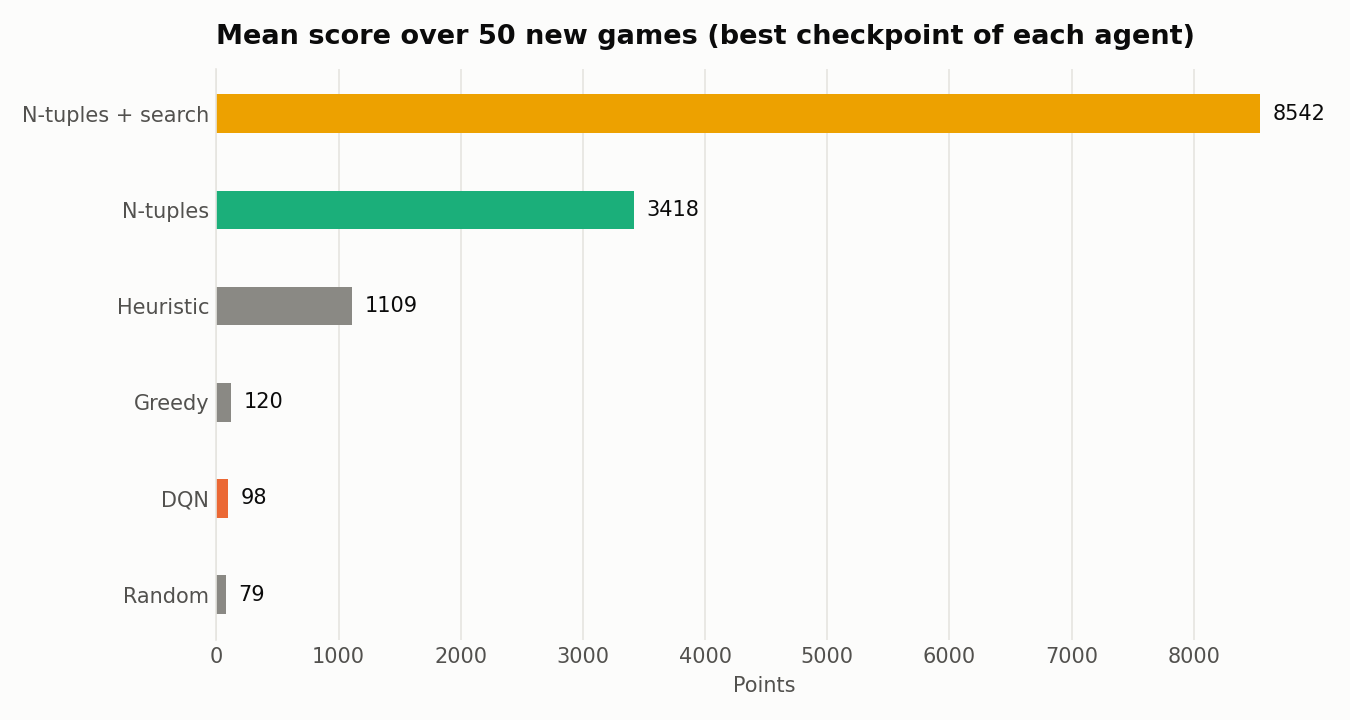
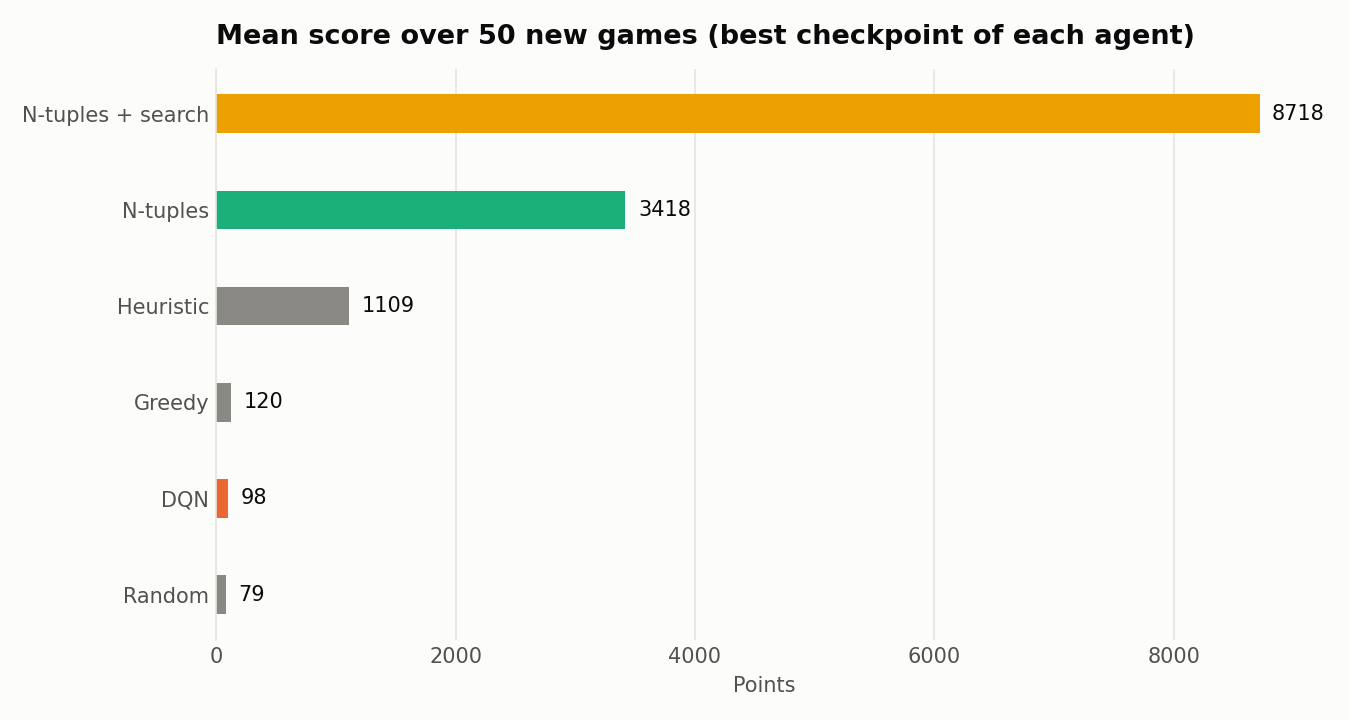
Search every piece left in hand and add --eval-only
- SearchAgent searches the remaining pieces of the hand recursively before trusting V
- experiment.py --eval-only re-runs the final evaluation without retraining" -m "- 10x10: n-tuples + search 8718 points, 96% of games reach the cap (was 8542, 90%)

diff --git a/src/tenten/agents/ntuple.py b/src/tenten/agents/ntuple.py
@@ -203,25 +203,30 @@ class NTupleAgent:
 
 
 class SearchAgent:
-    """One-step lookahead with a trained NTupleAgent, using the known pieces left in hand."""
+    """Searches every piece left in hand (they are known), and only then trusts V."""
 
-    def __init__(self, agent, top_k=12):
+    def __init__(self, agent, top_k=10):
         self.agent = agent
         self.top_k = top_k
 
     def act(self, env, info):
-        """Re-scores the top_k moves with the best follow-up move of the remaining pieces."""
+        """Plays the first move of the best sequence for the pieces in hand."""
+        actions, scores = self.search(env, env.board, env.hand)
+        return int(actions[np.argmax(scores)])
+
+    def search(self, env, board, hand):
+        """The top_k moves for this board and hand, re-scored with the best continuation."""
         a = self.agent
-        actions, slots, afterstates, rewards, scores = a.candidates(env)
-        best_action, best_score = actions[np.argmax(scores)], -np.inf
-        for i in np.argsort(-scores)[: self.top_k]:
-            rest = [k if s != slots[i] else None for s, k in enumerate(env.hand)]
-            if all(k is None for k in rest):
-                score = scores[i]  # last piece: the next hand is random, no lookahead
-            else:
-                *_, next_scores = a.candidates(env, board=afterstates[i], hand=rest)
+        actions, slots, afterstates, rewards, scores = a.candidates(
+            env, board=board, hand=hand
+        )
+        top = np.argsort(-scores)[: self.top_k]
+        for i in top:
+            rest = [k if s != slots[i] else None for s, k in enumerate(hand)]
+            if any(
+                k is not None for k in rest
+            ):  # pieces left: look further instead of using V
+                _, next_scores = self.search(env, afterstates[i], rest)
                 best_next = next_scores.max() if len(next_scores) else a.loss_penalty
-                score = rewards[i] + a.gamma * best_next
-            if score > best_score:
-                best_action, best_score = actions[i], score
-        return int(best_action)
+                scores[i] = rewards[i] + a.gamma * best_next
+        return actions[top], scores[top]

diff --git a/scripts/experiment.py b/scripts/experiment.py
@@ -3,7 +3,8 @@ Writes figures and summary.json to results/<setup>/ and logs everything to MLflo
 
 uv run python scripts/experiment.py --setup 5x5_small_L
 uv run python scripts/experiment.py --setup 10x10_all
-uv run python scripts/experiment.py --setup 10x10_all --only ntuple    # retrain only that model
+uv run python scripts/experiment.py --setup 10x10_all --only ntuple    # retrain only that model (overwrites it)
+uv run python scripts/experiment.py --setup 10x10_all --eval-only      # re-run only the final evaluation
 uv run mlflow ui --backend-store-uri sqlite:///mlflow.db      # http://127.0.0.1:5000
 """
 
@@ -96,6 +97,11 @@ def main():
         choices=list(TRAINERS),
         help="retrain only these models and reuse the rest from summary.json",
     )
+    parser.add_argument(
+        "--eval-only",
+        action="store_true",
+        help="no training: re-run the final evaluation of the saved models",
+    )
     args = parser.parse_args()
 
     setup = SETUPS[args.setup]
@@ -116,14 +122,13 @@ def main():
         for name, overrides in setup["configs"].items()
     }
 
-    if args.only:
+    retrain = [] if args.eval_only else args.only or []
+    if args.only or args.eval_only:
         with open(f"{results_dir}/summary.json", encoding="utf-8") as f:
             previous = json.load(f)
         baselines = {n: previous["final_scores"][n] for n in BASELINES}
         histories, models = previous["histories"], previous["models"]
-        delete_runs(
-            args.setup, [f"{n}_seed{SEED}" for n in args.only] + [f"summary_seed{SEED}"]
-        )
+        delete_runs(args.setup, [f"{n}_seed{SEED}" for n in retrain] + [f"summary_seed{SEED}"])
     else:
         baseline_config = {
             **common,
@@ -135,7 +140,7 @@ def main():
         )
         histories, models = {}, {}
 
-    for name in args.only or configs:
+    for name in retrain if (args.only or args.eval_only) else configs:
         print(f"\n=== {NAMES[name]} ===", flush=True)
         histories[name], models[name] = TRAINERS[name].train(
             configs[name], make_env, args.setup

diff --git a/tests/agents/test_ntuple.py b/tests/agents/test_ntuple.py
@@ -74,3 +74,14 @@ def test_simulated_move_matches_the_environment():
         assert np.isclose(reward, agent.reward_scale * env_reward)
         if terminated or truncated:
             obs, info = env.reset()
+
+
+def test_search_with_one_piece_is_the_plain_agent():
+    # With a single piece in hand there is nothing to search: same move as the agent
+    env = TenTenEnv()
+    agent = NTupleAgent()
+    agent.net.weights = np.random.default_rng(0).normal(size=len(agent.net.weights))
+    obs, info = env.reset(seed=0)
+    env.hand = [env.hand[0], None, None]
+    info = {"action_mask": env.action_mask()}
+    assert SearchAgent(agent).act(env, info) == agent.act(env, info)

diff --git a/README.md b/README.md
@@ -3,10 +3,10 @@
 Reinforcement learning agents that learn to play **1010!**: place pieces on a 10×10 board, clear full rows and columns, and survive as long as possible. Everything runs on CPU.
 
 <p align="center">
-  <img src="results/10x10_all/best_ntuple_search.gif" alt="N-tuple network with one-step search playing 1010!" width="600">
+  <img src="results/10x10_all/best_ntuple_search.gif" alt="N-tuple network with search playing 1010!" width="600">
 </p>
 
-<p align="center"><em>N-tuple network + one-step search playing the full game.</em></p>
+<p align="center"><em>N-tuple network + search over the pieces in hand, playing the full game.</em></p>
 
 ## Agents
 
@@ -16,7 +16,7 @@ Reinforcement learning agents that learn to play **1010!**: place pieces on a 10
 | Tabular Q-learning        | One Q-value per visited (state, action); only feasible on small boards                         |
 | DQN                       | Double DQN with action masking, replay buffer and target network                               |
 | N-tuples                  | TD(0) on afterstates with an n-tuple network that shares weights across the 8 board symmetries |
-| N-tuples + search         | The trained n-tuple network plus a one-step lookahead using the pieces left in hand            |
+| N-tuples + search         | The trained n-tuple network searching every piece left in hand before trusting V               |
 
 All agents use the same reward: the points of each move (cells placed + line bonus).
 
@@ -30,7 +30,7 @@ Full game: 10×10 board, all 19 pieces, hand of 3, at most 1000 pieces per game.
 
 | Agent                 | Mean score | Games that reach the 1000-piece cap |
 | --------------------- | ---------: | ----------------------------------: |
-| **N-tuples + search** |   **8542** |                             **90%** |
+| **N-tuples + search** |   **8718** |                             **96%** |
 | N-tuples              |       3418 |                                 14% |
 | Heuristic             |       1109 |                                   – |
 | Greedy                |        120 |                                   – |
@@ -39,8 +39,8 @@ Full game: 10×10 board, all 19 pieces, hand of 3, at most 1000 pieces per game.
 
 _– : not measured for the baselines._
 
-**N-tuples + search survives the whole game in 90% of the games**, so its mean score is a
-lower bound: the cap stops the game, not the agent. Even so, it scores 7.7× the
+**N-tuples + search survives the whole game in 96% of the games**, so its mean score is a
+lower bound: the cap stops the game, not the agent. Even so, it scores 7.9× the
 hand-crafted heuristic.
 
 The n-tuple network generalises across boards it has never seen, while the DQN does not learn in this setting. On a small deterministic version (5×5, one piece) the ranking flips and the DQN wins, since it can memorise a sequence that never loses. All figures are in [`results/`](results/).
